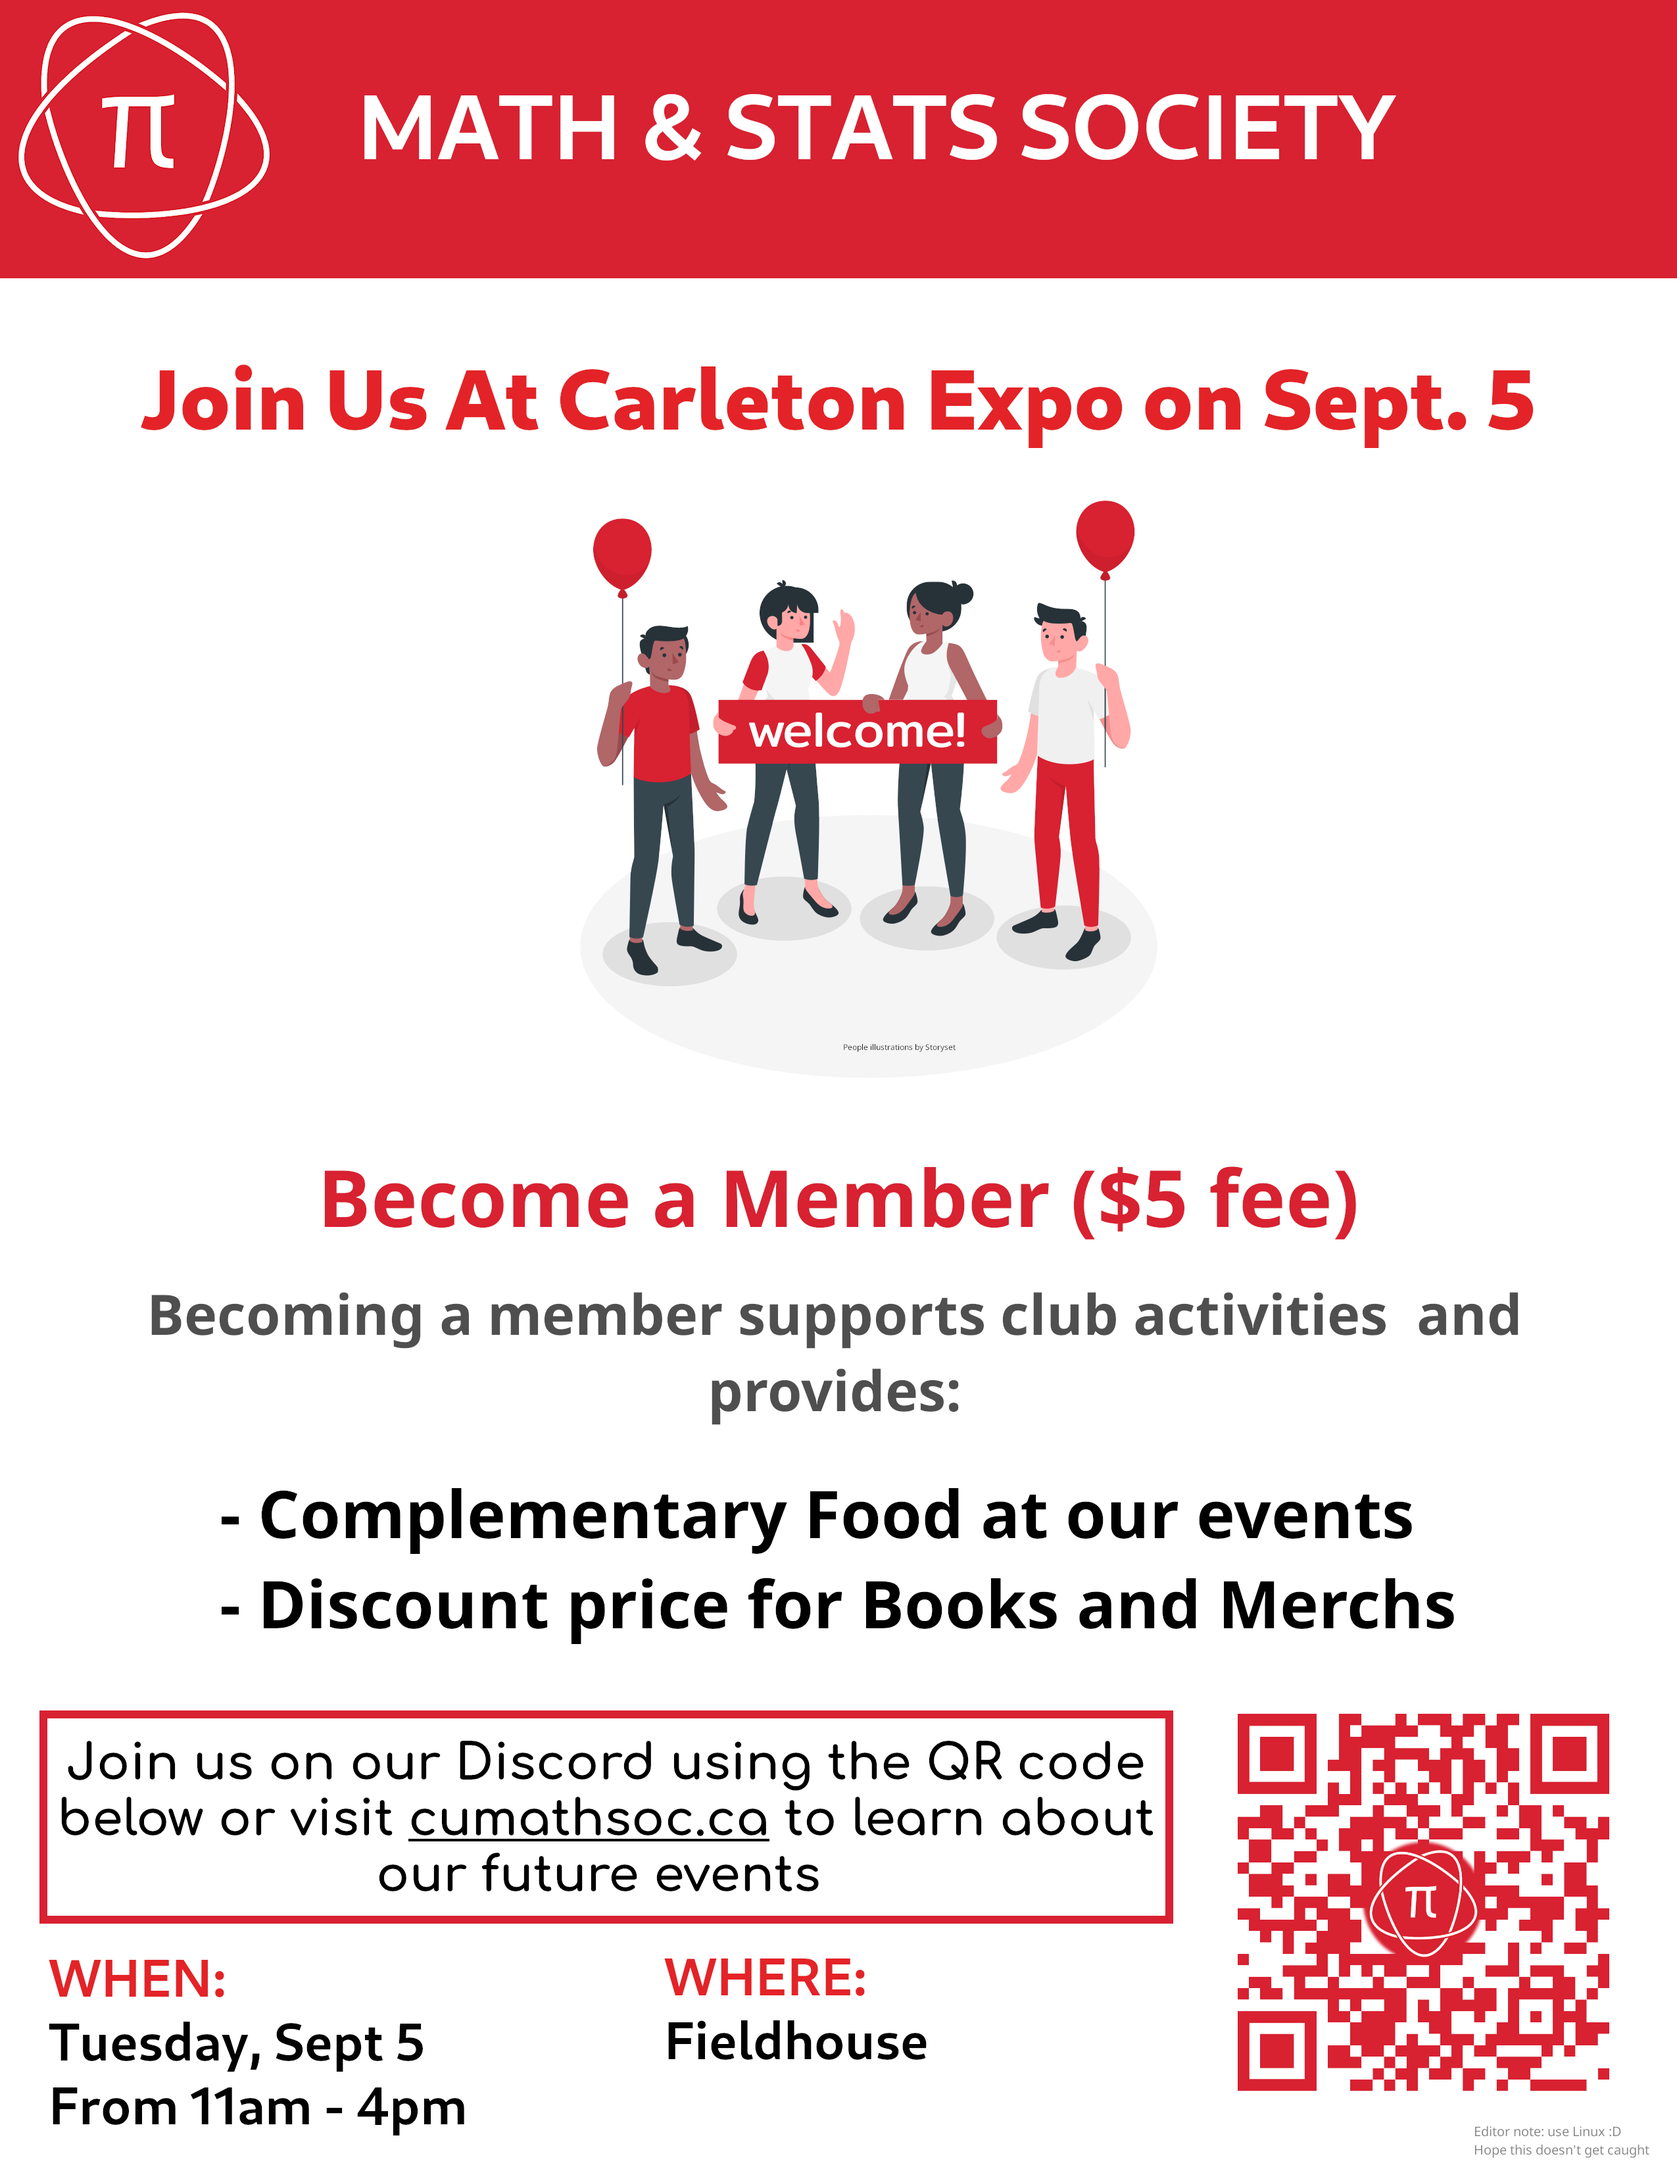
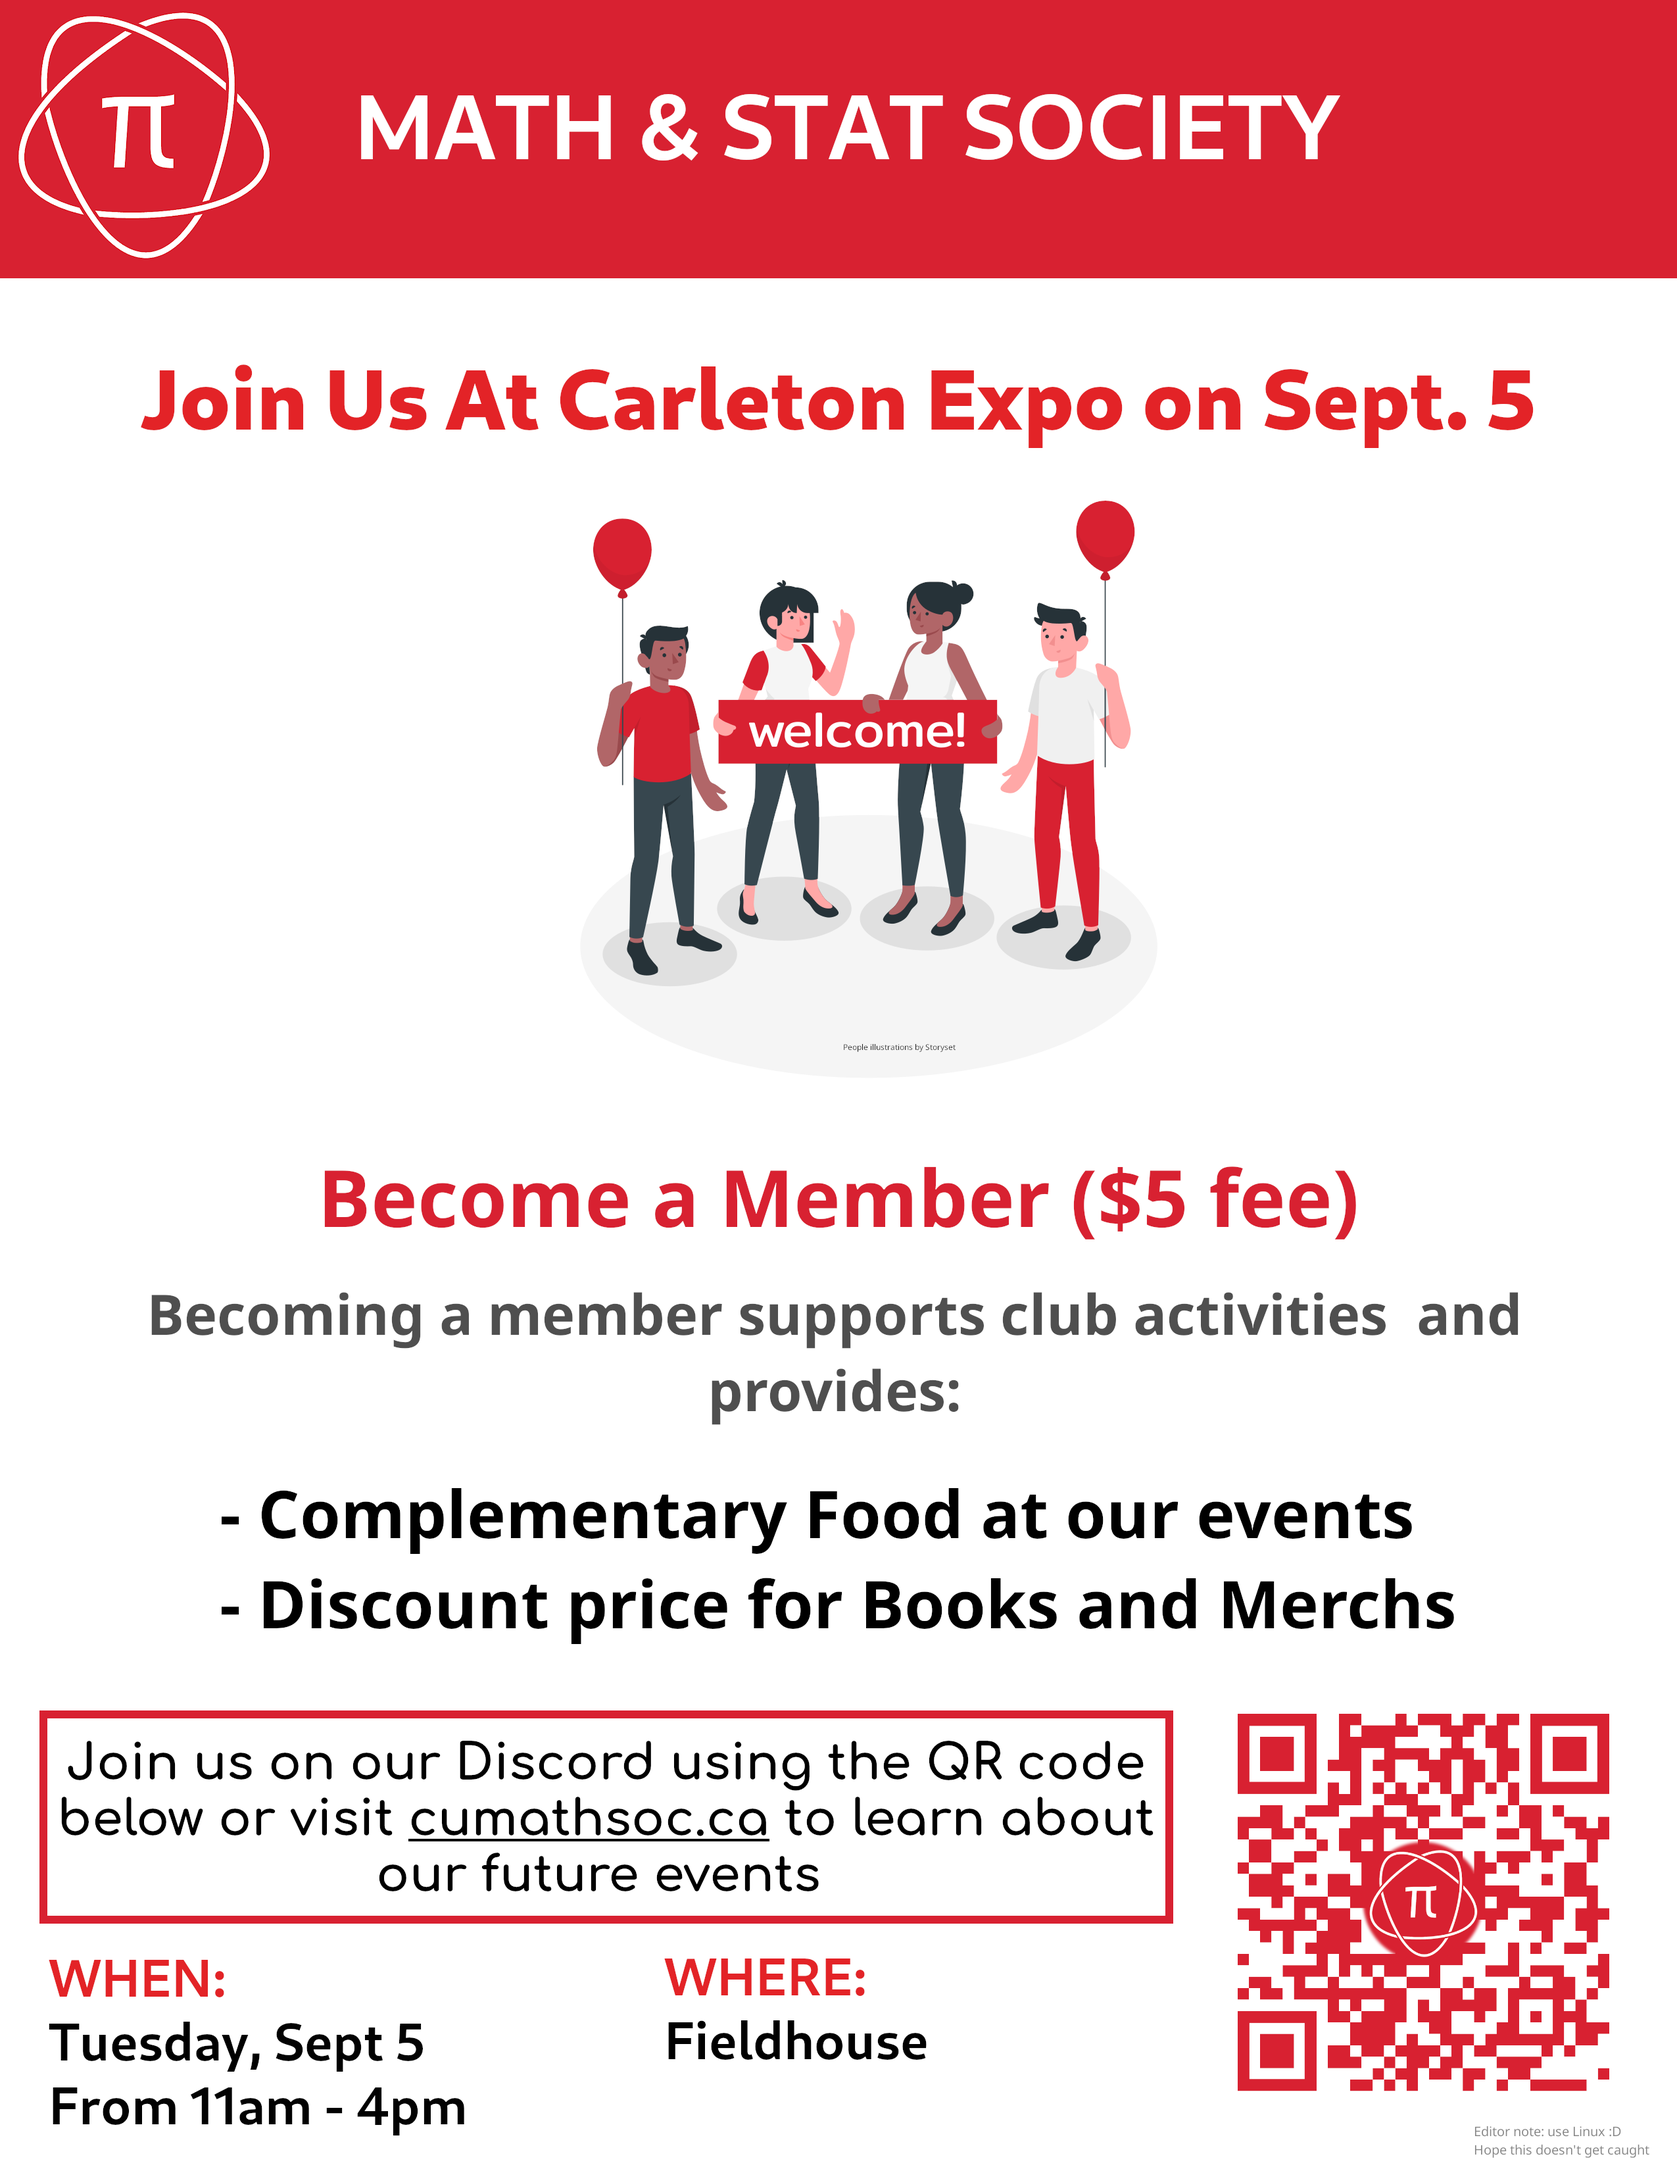
Update BBQ event and change website title

diff --git a/about.html b/about.html
@@ -25,7 +25,7 @@
     <header>
         <div id="logo"><a href="index.html"><img src="images/logo/logo.png" /></a></div>
         <a href="javascript:void(0);" class="hamburger-nav" onclick="toggleMenu()"><i class="fa fa-bars"></i></a>
-        <h1 id="club-name">CarletonU Math Society</h1>
+        <h1 id="club-name">CU Math & Stat Society</h1>
         <nav id="header-nav">
             <a href="index.html">News</a>
             <a href="resources.html">Resources</a>
@@ -47,11 +47,11 @@ We are a group of undergraduate students in Math & Stat. We are committed in bui
 <h3><u>Where & When are We</u></h3>
 We host and run numerous events on the campus of Carleton University during school days through the entire academic year. Majority of our events are located in Herzberg Laboratory. Some highlights include Annual Welcoming Barbecue, Weekly Colloquia Series, Monthly Breakfast Forum, and most important of all, Pi Day celebration. 
 
-<h3><u>How & Why are We</u></h3>
-Becoming a member comes with many benefits, for instance Complimentary food at our events, Discount price for Books and Merchs, Early purchase of merchandise. Also you will able be to have access to resources such as Course Outline, and Honours project template. 
+<!--<h3><u>How & Why are We</u></h3>
+Becoming a member comes with many benefits, for instance Complimentary food at our events and Discount price for Books and Merchs. -->
         </p>
 
-        <p>You can contact us by email at <a href="mailto: cumathsoc@gmail.com">cumathsoc@gmail.com</a> by
+        <p>You can contact us by email at <a href="mailto: cumathsoc@gmail.com">cumathsoc@gmail.com</a> or by
             joining our
             <a href="https://discord.gg/4ttYNMWkVw">Discord Server</a> to stay up to date with all our upcoming
             events.

diff --git a/scripts/data/events.js b/scripts/data/events.js
@@ -20,6 +20,20 @@ let events = [
 },
 {
   "type": "news-poster",
+  "title": "BBQ & Book SALE",
+  "presentor": "",
+  "date": "Thursday Sept. 7 2023 (10am-5:30pm)",
+  "location": "In front of Herzberg (HP)",
+  "desc": "Come to our student BBQ and buy math books. You can also get your Math & Stat Society membership which comes with free food.",
+  "img": "images/bbq-poster.png",
+  "calendar": {
+      "google": "https://calendar.google.com/calendar/render?action=TEMPLATE&dates=20230907T140000Z%2F20230907T213000Z&details=%2A%20BBQ%20from%2011am-4pm%0A%2A%20Purchase%20membership%0A%2A%20Buy%20Math%20books&location=Outside%20of%20Herzberg&text=MathSoc%20-%20BBQ%20%26%20Book%20Sale",
+      "outlook": "https://outlook.live.com/calendar/0/action/compose?body=%2A%20BBQ%20from%2011am-4pm%0A%2A%20Purchase%20membership%0A%2A%20Buy%20Math%20books&enddt=2023-09-07T21%3A30%3A00%2B00%3A00&location=Outside%20of%20Herzberg&path=%2Fcalendar%2Faction%2Fcompose&rru=addevent&startdt=2023-09-07T14%3A00%3A00%2B00%3A00&subject=MathSoc%20-%20BBQ%20%26%20Book%20Sale",
+      "apple": "data:text/calendar;charset=utf8,BEGIN:VCALENDAR%0AVERSION:2.0%0ABEGIN:VEVENT%0ADTSTART:20230907T140000Z%0ADTEND:20230907T213000Z%0ASUMMARY:MathSoc%20-%20BBQ%20%26%20Book%20Sale%0ADESCRIPTION:*%20BBQ%20from%2011am-4pm%5Cn*%20Purchase%20membership%5Cn*%20Buy%20Math%20books%0ALOCATION:Outside%20of%20Herzberg%0AEND:VEVENT%0AEND:VCALENDAR%0A"
+  } 
+},
+{
+  "type": "news-poster",
   "title": "MathSoc @ Club Expo",
   "presentor": "",
   "date": "Tuesday September 5",

diff --git a/outlines.html b/outlines.html
@@ -43,7 +43,7 @@
     <header>
         <div id="logo"><a href="index.html"><img src="images/logo/logo.png" /></a></div>
         <a href="javascript:void(0);" class="hamburger-nav" onclick="toggleMenu()"><i class="fa fa-bars"></i></a>
-        <h1 id="club-name">CarletonU Math Society</h1>
+        <h1 id="club-name">CarletonU Math & Stat Society</h1>
         <nav id="header-nav">
             <a href="index.html">News</a>
             <a href="resources.html">Resources</a>

diff --git a/index.html b/index.html
@@ -28,7 +28,7 @@
     <header>
         <div id="logo"><a href="index.html"><img src="images/logo/logo.png" /></a></div>
         <a href="javascript:void(0);" class="hamburger-nav" onclick="toggleMenu()"><i class="fa fa-bars"></i></a>
-        <h1 id="club-name">CarletonU Math Society</h1>
+        <h1 id="club-name">CU Math & Stat Society</h1>
         <nav id="header-nav">
             <a href="index.html">News</a>
             <a href="resources.html">Resources</a>

diff --git a/merch.html b/merch.html
@@ -27,7 +27,7 @@
     <header>
         <div id="logo"><a href="index.html"><img src="images/logo/logo.png" /></a></div>
         <a href="javascript:void(0);" class="hamburger-nav" onclick="toggleMenu()"><i class="fa fa-bars"></i></a>
-        <h1 id="club-name">CarletonU Math Society</h1>
+        <h1 id="club-name">CU Math & Stat Society</h1>
         <nav id="header-nav">
             <a href="index.html">News</a>
             <a href="resources.html">Resources</a>

diff --git a/news-archive.html b/news-archive.html
@@ -28,7 +28,7 @@
     <header>
         <div id="logo"><a href="index.html"><img src="images/logo/logo.png" /></a></div>
         <a href="javascript:void(0);" class="hamburger-nav" onclick="toggleMenu()"><i class="fa fa-bars"></i></a>
-        <h1 id="club-name">CarletonU Math Society</h1>
+        <h1 id="club-name">CU Math & Stat Society</h1>
         <nav id="header-nav">
             <a href="index.html">News</a>
             <a href="resources.html">Resources</a>

diff --git a/resources.html b/resources.html
@@ -25,7 +25,7 @@
     <header>
         <div id="logo"><a href="index.html"><img src="images/logo/logo.png" /></a></div>
         <a href="javascript:void(0);" class="hamburger-nav" onclick="toggleMenu()"><i class="fa fa-bars"></i></a>
-        <h1 id="club-name">CarletonU Math Society</h1>
+        <h1 id="club-name">CU Math & Stat Society</h1>
         <nav id="header-nav">
             <a href="index.html">News</a>
             <a href="resources.html">Resources</a>

diff --git a/style.css b/style.css
@@ -204,7 +204,7 @@ a:hover {
 }
 
 #resources h2 {
-    letter-spacing: 3px;
+   /* letter-spacing: 3px;*/
     text-decoration: underline;
 }
 
